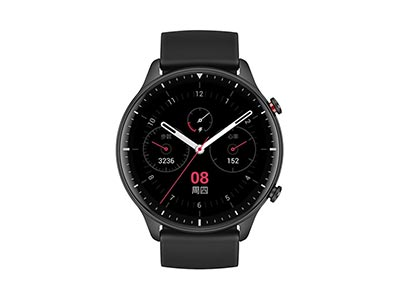
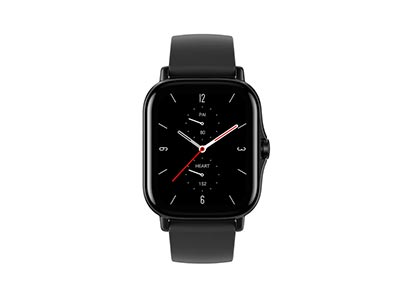
work complete

Changed region(s): [[0.27, 0.09, 0.72, 0.9]]

diff --git a/index.html b/index.html
@@ -29,13 +29,13 @@
                         <a class="nav-link active" aria-current="page" href="#">Home</a>
                     </li>
                     <li class="nav-item">
-                        <a class="nav-link" href="#">Watch</a>
+                        <a class="nav-link" href="#watch">Watch</a>
                     </li>
                     <li class="nav-item">
-                        <a class="nav-link" href="#">Backpack</a>
+                        <a class="nav-link" href="#backpack">Backpack</a>
                     </li>
                     <li class="nav-item">
-                        <a class="nav-link" href="#">Shoes</a>
+                        <a class="nav-link" href="#shoes">Shoes</a>
                     </li>
                 </ul>
 
@@ -59,7 +59,7 @@
             <div class="carousel-item active">
                 <div class="row d-flex align-items-center p-3">
                     <div class="col-md-7">
-                        <h1>Mega LCD TV For Sports</h1>
+                        <h1>Adidas Originals Men's Seeley Sneaker</h1>
                         <p>This is the best tv in the world for people who just want to waste time in front of tv want to waste time in front of funky.</p>
                         <h3>$1200</h3>
                         <button class="btn btn-secondary">Buy Now</button>
@@ -72,20 +72,20 @@
             <div class="carousel-item">
                 <div class="row d-flex align-items-center p-3">
                     <div class="col-md-7">
-                        <h1>Cool Dude Headphone</h1>
+                        <h1>BLACK BAY FIFTY-EIGHT</h1>
                         <p>This is the best headphone in the world for people who just want to waste time in front of funky world.</p>
                         <h3>$420</h3>
                         <button class="btn btn-secondary">Buy Now</button>
                     </div>
                     <div class="col-md-5">
-                        <img src="images/banner-images/watch.png" class="d-block w-100" alt="...">
+                        <img src="images/banner-images/watch.jpg" class="d-block w-100" alt="...">
                     </div>
                 </div>
             </div>
             <div class="carousel-item">
                 <div class="row d-flex align-items-center p-3">
                     <div class="col-md-7">
-                        <h1>X-Box for your living room</h1>
+                        <h1>PUMA Boy's Backpacks and Lunch Boxes</h1>
                         <p>This is the best x-box in the world for people who just want to waste time in front of fake sports</p>
                         <h3>$1200</h3>
                         <button class="btn btn-secondary">Buy Now</button>
@@ -111,7 +111,7 @@
         <section class="container overflow-hidden mt-5 catagoris">
             <div class="row gx-5">
               <div class="col">
-                <div class="p-3 rounded bg-secondary d-flex align-items-center justify-content-around">
+                <div class="p-3 rounded bg-success d-flex align-items-center justify-content-around">
                     <h1 class="text-white">Shohes</h1>
                    <img src="images/categories/shoes.png" alt="">
                 </div>
@@ -124,7 +124,7 @@
                </div>
               </div>
               <div class="col">
-                <div class="p-3 rounded bg-secondary d-flex align-items-center justify-content-around">
+                <div class="p-3 rounded bg-info d-flex align-items-center justify-content-around">
                     <h1 class="text-white">Bag</h1>
                    <img src="images/categories/bag.png" alt="">
                 </div>
@@ -302,9 +302,13 @@
            </div>
         </section>
     </main>
-    <footer class="text-center mt-5">
-        <small>©2020. Panda Commerce. All rights reserved. Sofia, Bulgaria.</small>
-    </footer>
+    <!-- Footer -->
+    <footer class="text-center py-5">
+      <div class="container">
+          <p class="mb-0">Copyright © 2021 | This template made with <i class="icons icon-heart"></i> by <a href="http://mranainfo.com" target="_blank">M.Rana</a></p>
+      </div>
+  </footer>
+  <!-- End Footer -->
     <!---Bootstrap Js CDN Lind-->
     <script src="https://cdn.jsdelivr.net/npm/bootstrap@5.0.0-beta1/dist/js/bootstrap.bundle.min.js" integrity="sha384-ygbV9kiqUc6oa4msXn9868pTtWMgiQaeYH7/t7LECLbyPA2x65Kgf80OJFdroafW" crossorigin="anonymous"></script>
 </body>
